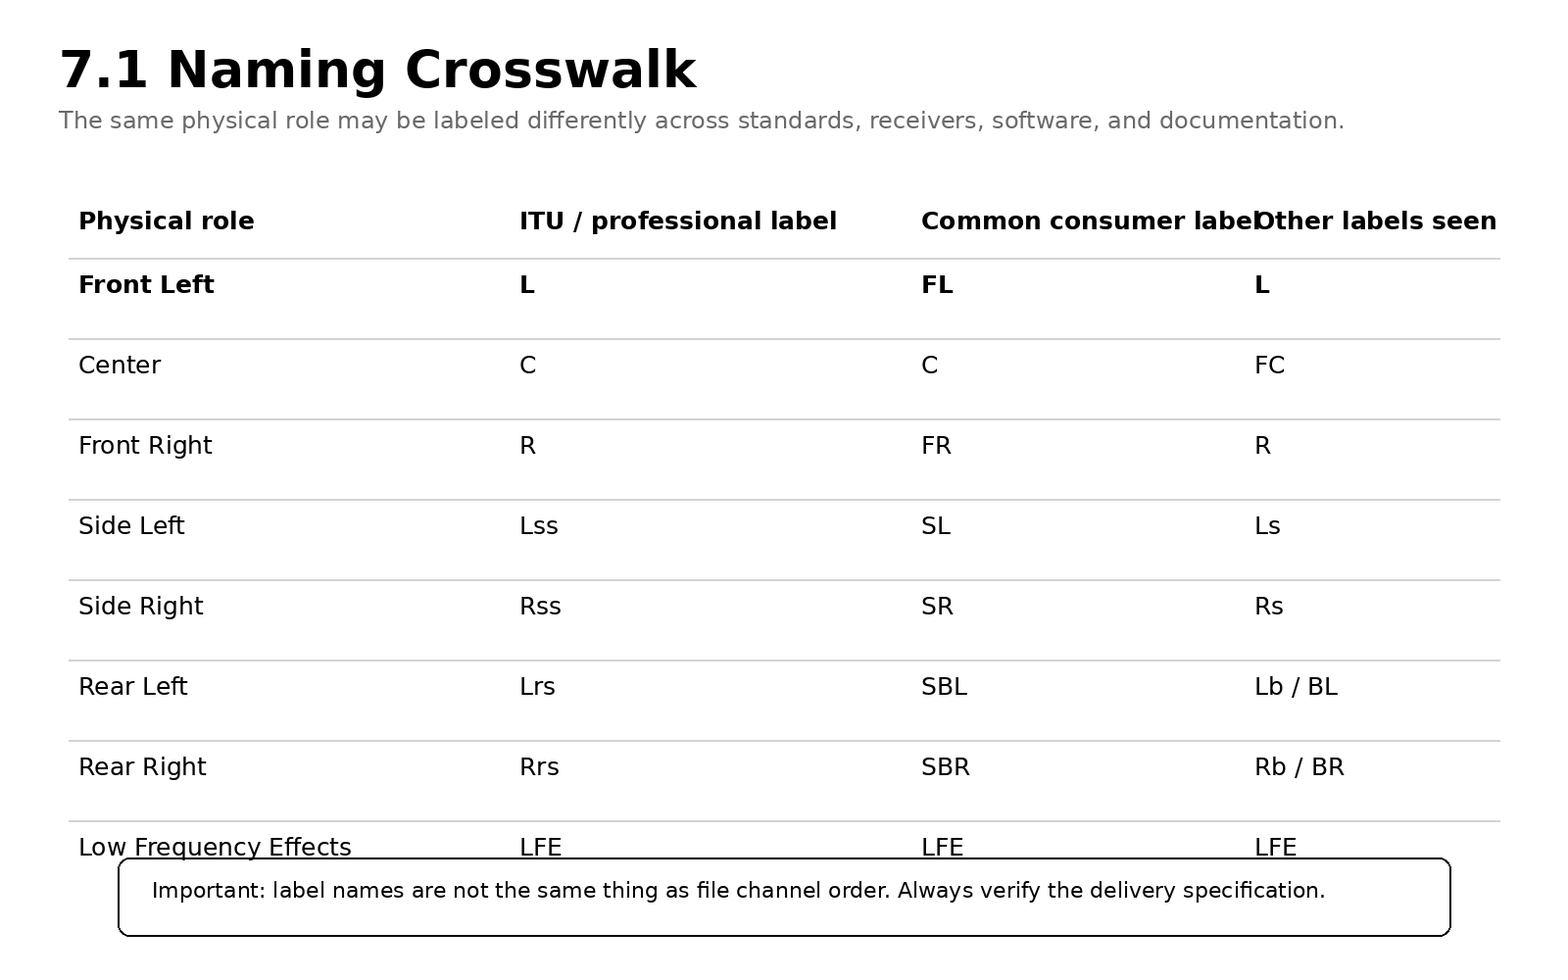
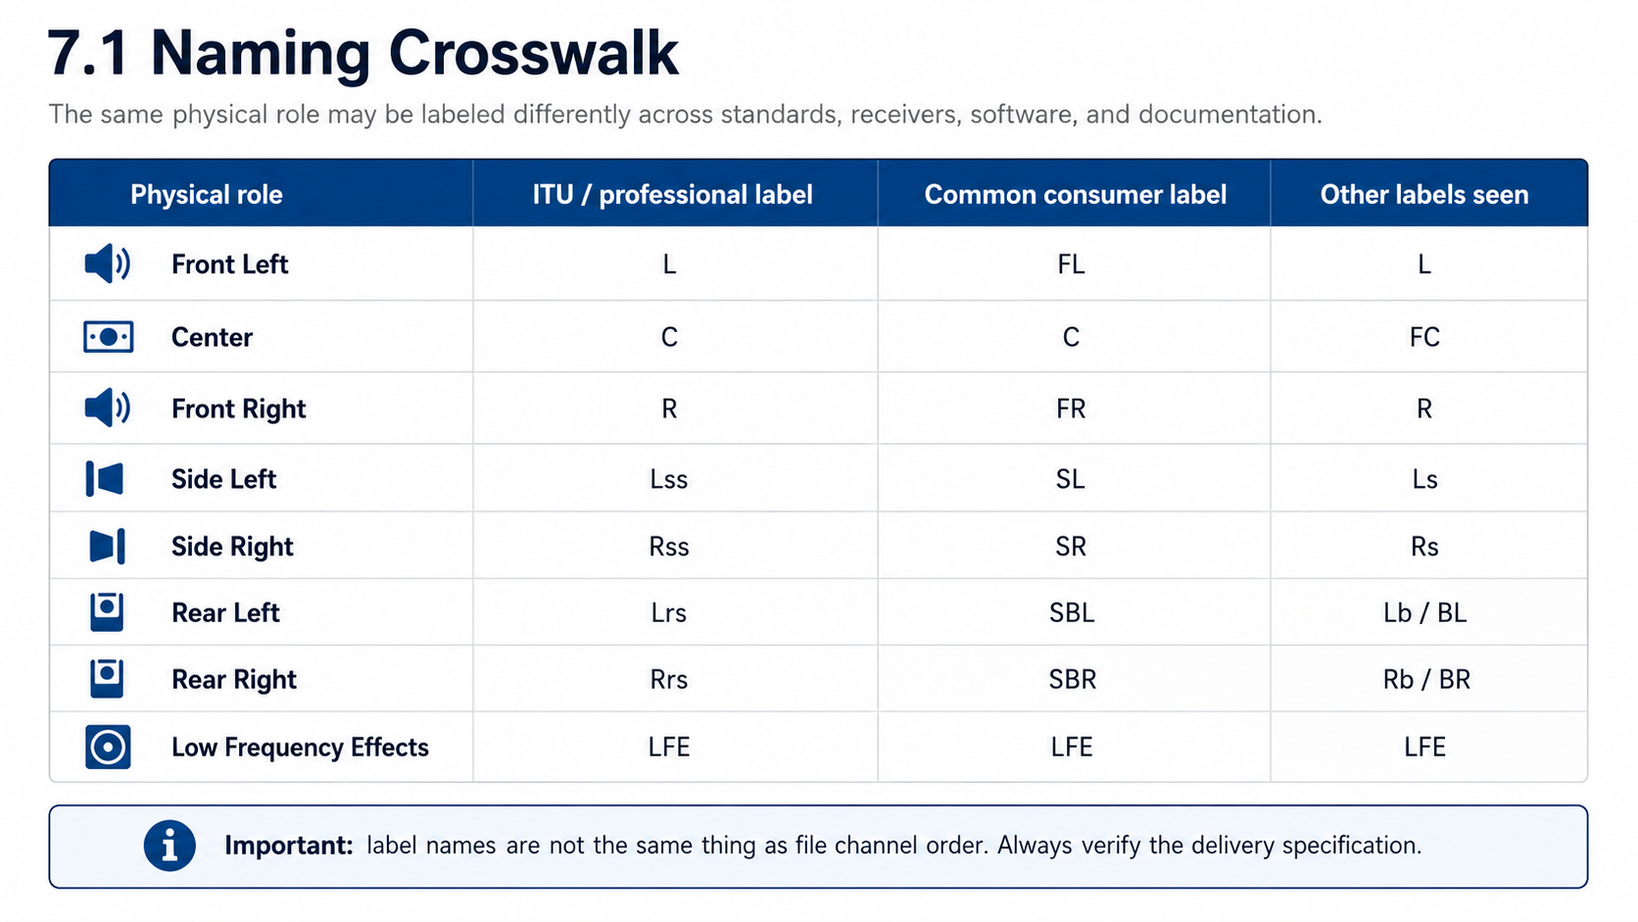
Surround

diff --git a/Classes/DAPR-3340--Spatial-Audio-I/Images/CanvasImageReferences.html b/Classes/DAPR-3340--Spatial-Audio-I/Images/CanvasImageReferences.html
@@ -1,31 +1,262 @@
-<img src="https://raw.githubusercontent.com/uvu-dapr/Canvas/main/Classes/DAPR-3340--Spatial-Audio-I/Images/1-23ITU51SpeakerLayout.png" alt="1-23ITU51SpeakerLayout" style="max-width:100%; height:auto;">
+<div style="font-family:Arial, Helvetica, sans-serif; max-width:900px; margin:0 auto; color:#212121; line-height:1.6; background-color:#ffffff; padding:0 12px;">
 
-<img src="https://raw.githubusercontent.com/uvu-dapr/Canvas/main/Classes/DAPR-3340--Spatial-Audio-I/Images/1-24ITU71SpeakerLayout.png" alt="1-24ITU71SpeakerLayout" style="max-width:100%; height:auto;">
+  <h2 style="background-color:#1b5e20; color:#ffffff; padding:16px 20px; font-size:1.4em; border-radius:4px;">5.1 and 7.1 Surround Sound: Layouts, Naming, and Historical Variants</h2>
 
-<img src="https://raw.githubusercontent.com/uvu-dapr/Canvas/main/Classes/DAPR-3340--Spatial-Audio-I/Images/1-25LFEVsBassManagement.png" alt="1-25LFEVsBassManagement" style="max-width:100%; height:auto;">
+  <p>5.1 and 7.1 are both channel-based surround formats, but the label "7.1" has not always described the same loudspeaker arrangement. Modern 7.1 normally uses three front channels, two side surrounds, two rear surrounds, and LFE. Historical systems used the same channel count in different ways, including Sony SDDS with five screen channels across the front.</p>
 
-<img src="https://raw.githubusercontent.com/uvu-dapr/Canvas/main/Classes/DAPR-3340--Spatial-Audio-I/Images/1-26SevenPointOneNamingCrosswalk.png" alt="1-26SevenPointOneNamingCrosswalk" style="max-width:100%; height:auto;">
+  <p>This page separates the modern reference layouts from older matrix, cinema, file-based, and height-expansion systems so the channel names and speaker roles stay clear.</p>
 
-<img src="https://raw.githubusercontent.com/uvu-dapr/Canvas/main/Classes/DAPR-3340--Spatial-Audio-I/Images/1-27SDDS71FiveFrontLayout.png" alt="1-27SDDS71FiveFrontLayout" style="max-width:100%; height:auto;">
+  <div style="background-color:#e3f2fd; border-left:4px solid #0d47a1; margin:16px 0; padding:12px 14px;">
+    <img src="https://raw.githubusercontent.com/uvu-dapr/Canvas/main/Classes/All/DAPR_Canvas_Icon_Reference/Callout_Note.svg" alt="Note" width="44" height="44" style="vertical-align:middle; margin-right:10px;">
+    <strong style="vertical-align:middle;">Start with the layout, not the number</strong>
+    <div style="margin-left:54px; margin-top:4px;">When you see "7.1," ask which 7.1 layout is being discussed. Modern side-and-rear 7.1, Sony SDDS 7.1, Pro Logic IIx expansion, and legacy height expansion do not place the additional channels in the same locations.</div>
+  </div>
 
-<img src="https://raw.githubusercontent.com/uvu-dapr/Canvas/main/Classes/DAPR-3340--Spatial-Audio-I/Images/1-28Modern71SideRearLayout.png" alt="1-28Modern71SideRearLayout" style="max-width:100%; height:auto;">
+  <h2 style="color:#1b5e20; font-size:1.3em; border-bottom:2px solid #1b5e20; padding-bottom:4px;">5.1 Reference Layout</h2>
 
-<img src="https://raw.githubusercontent.com/uvu-dapr/Canvas/main/Classes/DAPR-3340--Spatial-Audio-I/Images/1-29FivePointOneToSevenPointOneExtension.png" alt="1-29FivePointOneToSevenPointOneExtension" style="max-width:100%; height:auto;">
+  <p>Conventional 5.1 uses five main channels plus a dedicated Low Frequency Effects channel:</p>
 
-<img src="https://raw.githubusercontent.com/uvu-dapr/Canvas/main/Classes/DAPR-3340--Spatial-Audio-I/Images/1-30ProLogicIIxVsIIz.png" alt="1-30ProLogicIIxVsIIz" style="max-width:100%; height:auto;">
+  <ul>
+    <li>Left (L)</li>
+    <li>Center (C)</li>
+    <li>Right (R)</li>
+    <li>Left Surround (LS)</li>
+    <li>Right Surround (RS)</li>
+    <li>Low Frequency Effects (LFE)</li>
+  </ul>
 
-<img src="https://raw.githubusercontent.com/uvu-dapr/Canvas/main/Classes/DAPR-3340--Spatial-Audio-I/Images/1-31SevenPointOneAndHeightFormats.png" alt="1-31SevenPointOneAndHeightFormats" style="max-width:100%; height:auto;">
+  <div style="text-align:center; margin:22px 0;">
+    <img src="https://raw.githubusercontent.com/uvu-dapr/Canvas/main/Classes/DAPR-3340--Spatial-Audio-I/Images/1-23ITU51SpeakerLayout.png" alt="5.1 reference loudspeaker layout with front and surround placement ranges" style="max-width:760px; width:100%; height:auto;">
+    <p style="margin:6px 0 0 0; color:#616161; font-style:italic;">Figure 1. 5.1 reference loudspeaker geometry based on ITU-R BS.775-4.</p>
+  </div>
 
-<img src="https://raw.githubusercontent.com/uvu-dapr/Canvas/main/Classes/DAPR-3340--Spatial-Audio-I/Images/1-32WindowsMediaAudio9Pro71.png" alt="1-32WindowsMediaAudio9Pro71" style="max-width:100%; height:auto;">
+  <p>Left and Right are positioned approximately 30 degrees to either side of Center. The surround loudspeakers occupy the side-rear region, typically within the 100 to 120 degree sectors.</p>
 
-<img src="https://raw.githubusercontent.com/uvu-dapr/Canvas/main/Classes/DAPR-3340--Spatial-Audio-I/Images/1-33WindowsMediaVsWindowsSpatialSound.png" alt="1-33WindowsMediaVsWindowsSpatialSound" style="max-width:100%; height:auto;">
+  <h3 style="color:#1b5e20; font-size:1.2em; font-weight:bold; border-bottom:2px solid #1b5e20; padding-bottom:6px; margin-top:38px; margin-bottom:18px;">LFE Is Not the Same Thing as Bass Management</h3>
 
-<img src="https://raw.githubusercontent.com/uvu-dapr/Canvas/main/Classes/DAPR-3340--Spatial-Audio-I/Images/1-34SevenPointOneMusicUse.png" alt="1-34SevenPointOneMusicUse" style="max-width:100%; height:auto;">
+  <div style="text-align:center; margin:22px 0;">
+    <img src="https://raw.githubusercontent.com/uvu-dapr/Canvas/main/Classes/DAPR-3340--Spatial-Audio-I/Images/1-25LFEVsBassManagement.png" alt="Diagram comparing the LFE program channel with playback bass management" style="max-width:760px; width:100%; height:auto;">
+    <p style="margin:6px 0 0 0; color:#616161; font-style:italic;">Figure 2. LFE and bass management are separate concepts.</p>
+  </div>
 
-<img src="https://raw.githubusercontent.com/uvu-dapr/Canvas/main/Classes/DAPR-3340--Spatial-Audio-I/Images/1-35SevenPointOneFamiliesComparison.png" alt="1-35SevenPointOneFamiliesComparison" style="max-width:100%; height:auto;">
+  <p>The LFE channel is a discrete program channel. Bass management is playback-system processing that redirects low-frequency information from the main channels to one or more subwoofers. The ".1" in 5.1 describes the LFE channel, not the physical number of subwoofers.</p>
 
-<img src="https://raw.githubusercontent.com/uvu-dapr/Canvas/main/Classes/DAPR-3340--Spatial-Audio-I/Images/1-36SDDSEducationalBadge.png" alt="1-36SDDSEducationalBadge" style="max-width:100%; height:auto;">
+  <h2 style="color:#1b5e20; font-size:1.3em; border-bottom:2px solid #1b5e20; padding-bottom:4px;">Modern 7.1 Reference Layout</h2>
 
-<img src="https://raw.githubusercontent.com/uvu-dapr/Canvas/main/Classes/DAPR-3340--Spatial-Audio-I/Images/1-37WindowsMediaAudio9ProBadge.png" alt="1-37WindowsMediaAudio9ProBadge" style="max-width:100%; height:auto;">
+  <p>Modern 7.1 keeps the same three front channels as 5.1 but divides the surround field into separate side and rear pairs:</p>
 
-<img src="https://raw.githubusercontent.com/uvu-dapr/Canvas/main/Classes/DAPR-3340--Spatial-Audio-I/Images/1-38SevenPointOneChannelOrderVsLabels.png" alt="1-38SevenPointOneChannelOrderVsLabels" style="max-width:100%; height:auto;">
+  <ul>
+    <li>Left (L)</li>
+    <li>Center (C)</li>
+    <li>Right (R)</li>
+    <li>Left Side Surround (Lss)</li>
+    <li>Right Side Surround (Rss)</li>
+    <li>Left Rear Surround (Lrs)</li>
+    <li>Right Rear Surround (Rrs)</li>
+    <li>Low Frequency Effects (LFE)</li>
+  </ul>
+
+  <div style="text-align:center; margin:22px 0;">
+    <img src="https://raw.githubusercontent.com/uvu-dapr/Canvas/main/Classes/DAPR-3340--Spatial-Audio-I/Images/1-24ITU71SpeakerLayout.png" alt="7.1 reference layout with front, side surround, and rear surround positions" style="max-width:760px; width:100%; height:auto;">
+    <p style="margin:6px 0 0 0; color:#616161; font-style:italic;">Figure 3. Modern 7.1 reference geometry based on ITU-R BS.2051-3 Sound System I.</p>
+  </div>
+
+  <p>The additional pair in modern 7.1 does not simply move the 5.1 surrounds farther backward. Instead, the surround field is divided into side-surround and rear-surround roles.</p>
+
+  <div style="text-align:center; margin:22px 0;">
+    <img src="https://raw.githubusercontent.com/uvu-dapr/Canvas/main/Classes/DAPR-3340--Spatial-Audio-I/Images/1-28Modern71SideRearLayout.png" alt="Modern 7.1 layout with distinct side and rear surround pairs" style="max-width:760px; width:100%; height:auto;">
+    <p style="margin:6px 0 0 0; color:#616161; font-style:italic;">Figure 4. Modern 7.1 uses separate side and rear surround pairs.</p>
+  </div>
+
+  <div style="text-align:center; margin:22px 0;">
+    <img src="https://raw.githubusercontent.com/uvu-dapr/Canvas/main/Classes/DAPR-3340--Spatial-Audio-I/Images/1-29FivePointOneToSevenPointOneExtension.png" alt="Diagram showing how 7.1 expands the 5.1 surround field into side and rear pairs" style="max-width:760px; width:100%; height:auto;">
+    <p style="margin:6px 0 0 0; color:#616161; font-style:italic;">Figure 5. A useful way to visualize the change from 5.1 to modern 7.1.</p>
+  </div>
+
+  <h3 style="color:#1b5e20; font-size:1.2em; font-weight:bold; border-bottom:2px solid #1b5e20; padding-bottom:6px; margin-top:38px; margin-bottom:18px;">7.1 Naming Can Be Confusing</h3>
+
+  <p>Different standards, DAWs, receivers, codecs, and manufacturers may use different labels for similar speaker roles. The physical role matters more than memorizing one abbreviation.</p>
+
+  <div style="text-align:center; margin:22px 0;">
+    <img src="https://raw.githubusercontent.com/uvu-dapr/Canvas/main/Classes/DAPR-3340--Spatial-Audio-I/Images/1-26SevenPointOneNamingCrosswalk.png" alt="Crosswalk of common 7.1 side and rear surround channel labels" style="max-width:820px; width:100%; height:auto;">
+    <p style="margin:6px 0 0 0; color:#616161; font-style:italic;">Figure 6. Common naming conventions for 7.1 channels.</p>
+  </div>
+
+  <table style="width:100%; border-collapse:collapse; margin:18px 0 28px 0; border:2px solid #1b5e20;">
+    <caption>Common 7.1 Channel Labels</caption>
+    <thead>
+      <tr>
+        <th scope="col" style="background-color:#1b5e20; color:#ffffff; padding:10px; text-align:left;">Physical Role</th>
+        <th scope="col" style="background-color:#1b5e20; color:#ffffff; padding:10px; text-align:left;">Professional / ITU Style</th>
+        <th scope="col" style="background-color:#1b5e20; color:#ffffff; padding:10px; text-align:left;">Consumer Labels Often Seen</th>
+      </tr>
+    </thead>
+    <tbody>
+      <tr>
+        <td style="padding:10px; border-bottom:1px solid #cccccc;">Left Side Surround</td>
+        <td style="padding:10px; border-bottom:1px solid #cccccc;">Lss</td>
+        <td style="padding:10px; border-bottom:1px solid #cccccc;">SL, Ls</td>
+      </tr>
+      <tr style="background-color:#f5f5f5;">
+        <td style="padding:10px; border-bottom:1px solid #cccccc;">Right Side Surround</td>
+        <td style="padding:10px; border-bottom:1px solid #cccccc;">Rss</td>
+        <td style="padding:10px; border-bottom:1px solid #cccccc;">SR, Rs</td>
+      </tr>
+      <tr>
+        <td style="padding:10px; border-bottom:1px solid #cccccc;">Left Rear Surround</td>
+        <td style="padding:10px; border-bottom:1px solid #cccccc;">Lrs</td>
+        <td style="padding:10px; border-bottom:1px solid #cccccc;">SBL, Lb, BL</td>
+      </tr>
+      <tr style="background-color:#f5f5f5;">
+        <td style="padding:10px;">Right Rear Surround</td>
+        <td style="padding:10px;">Rrs</td>
+        <td style="padding:10px;">SBR, Rb, BR</td>
+      </tr>
+    </tbody>
+  </table>
+
+  <div style="background-color:#fff8e1; border-left:4px solid #f57f17; margin:16px 0; padding:12px 14px;">
+    <img src="https://raw.githubusercontent.com/uvu-dapr/Canvas/main/Classes/All/DAPR_Canvas_Icon_Reference/Callout_Warning.svg" alt="Warning" width="44" height="44" style="vertical-align:middle; margin-right:10px;">
+    <strong style="vertical-align:middle;">Speaker labels and file channel order are different issues</strong>
+    <div style="margin-left:54px; margin-top:4px;">A label such as Lss tells you the speaker's spatial role. It does not guarantee where that channel appears in an interleaved file, codec, or delivery specification.</div>
+  </div>
+
+  <div style="text-align:center; margin:22px 0;">
+    <img src="https://raw.githubusercontent.com/uvu-dapr/Canvas/main/Classes/DAPR-3340--Spatial-Audio-I/Images/1-38SevenPointOneChannelOrderVsLabels.png" alt="Diagram distinguishing speaker labels from encoded channel order" style="max-width:820px; width:100%; height:auto;">
+    <p style="margin:6px 0 0 0; color:#616161; font-style:italic;">Figure 7. Always verify channel order separately from speaker naming.</p>
+  </div>
+
+  <h2 style="color:#1b5e20; font-size:1.3em; border-bottom:2px solid #1b5e20; padding-bottom:4px;">Sony SDDS: A Very Different 7.1</h2>
+
+  <p>Sony Dynamic Digital Sound, or SDDS, is one of the most important reasons the label "7.1" can be misleading. The historical eight-channel SDDS configuration used five channels across the front of the theater, two surround channels, and LFE.</p>
+
+  <div style="text-align:center; margin:18px 0;">
+    <img src="https://raw.githubusercontent.com/uvu-dapr/Canvas/main/Classes/DAPR-3340--Spatial-Audio-I/Images/1-36SDDSEducationalBadge.png" alt="Educational identifier for Sony Dynamic Digital Sound" style="max-width:640px; width:100%; height:auto;">
+  </div>
+
+  <div style="text-align:center; margin:22px 0;">
+    <img src="https://raw.githubusercontent.com/uvu-dapr/Canvas/main/Classes/DAPR-3340--Spatial-Audio-I/Images/1-27SDDS71FiveFrontLayout.png" alt="Sony SDDS 7.1 layout with five screen channels and two surrounds" style="max-width:820px; width:100%; height:auto;">
+    <p style="margin:6px 0 0 0; color:#616161; font-style:italic;">Figure 8. Historical SDDS 7.1 used five screen channels: L, Lc, C, Rc, and R.</p>
+  </div>
+
+  <p>The five-front-channel arrangement was intended to improve localization and screen coverage in large cinemas. It is not the same layout as the modern home-theater and production version of 7.1.</p>
+
+  <div style="text-align:center; margin:22px 0;">
+    <img src="https://raw.githubusercontent.com/uvu-dapr/Canvas/main/Classes/DAPR-3340--Spatial-Audio-I/Images/1-35SevenPointOneFamiliesComparison.png" alt="Comparison of modern 7.1, SDDS 7.1, Pro Logic IIx, and height expansion" style="max-width:820px; width:100%; height:auto;">
+    <p style="margin:6px 0 0 0; color:#616161; font-style:italic;">Figure 9. Several systems have used the term 7.1 even though the layouts differ.</p>
+  </div>
+
+  <h2 style="color:#1b5e20; font-size:1.3em; border-bottom:2px solid #1b5e20; padding-bottom:4px;">Legacy Dolby Expansion: Pro Logic IIx and IIz</h2>
+
+  <p>Dolby Pro Logic IIx and Dolby Pro Logic IIz are useful historical examples because they extended conventional surround in two different directions.</p>
+
+  <div style="text-align:center; margin:22px 0;">
+    <img src="https://raw.githubusercontent.com/uvu-dapr/Canvas/main/Classes/DAPR-3340--Spatial-Audio-I/Images/1-30ProLogicIIxVsIIz.png" alt="Comparison of Pro Logic IIx back-surround expansion and Pro Logic IIz front-height expansion" style="max-width:820px; width:100%; height:auto;">
+    <p style="margin:6px 0 0 0; color:#616161; font-style:italic;">Figure 10. Pro Logic IIx expanded toward back surrounds, while Pro Logic IIz added front height channels.</p>
+  </div>
+
+  <p>Pro Logic IIx was associated with extending compatible material toward 6.1 or 7.1 playback by adding back-surround information. Pro Logic IIz added front-height channels instead. Those height channels are a separate historical concept from the modern side-and-rear 7.1 bed.</p>
+
+  <h2 style="color:#1b5e20; font-size:1.3em; border-bottom:2px solid #1b5e20; padding-bottom:4px;">Did 7.1 Ever Include Height?</h2>
+
+  <p>Plain "7.1" normally describes seven ear-level channels plus LFE. Once discrete height channels are added, modern naming should show them explicitly with a third number, such as 7.1.2 or 7.1.4.</p>
+
+  <div style="text-align:center; margin:22px 0;">
+    <img src="https://raw.githubusercontent.com/uvu-dapr/Canvas/main/Classes/DAPR-3340--Spatial-Audio-I/Images/1-31SevenPointOneAndHeightFormats.png" alt="Comparison of 7.1, 7.1.2, 7.1.4, and Auro 11.1 height configurations" style="max-width:820px; width:100%; height:auto;">
+    <p style="margin:6px 0 0 0; color:#616161; font-style:italic;">Figure 11. Height channels should be identified explicitly instead of being hidden inside the label 7.1.</p>
+  </div>
+
+  <p>Auro-3D also demonstrates how a 7.1 lower layer can be extended vertically. Auro 11.1, for example, can be described as a 7.1 lower layer plus four height channels.</p>
+
+  <h2 style="color:#1b5e20; font-size:1.3em; border-bottom:2px solid #1b5e20; padding-bottom:4px;">7.1 for Music</h2>
+
+  <p>7.1 is not limited to film sound. In music production, the side and rear pairs give the mixer more horizontal control than 5.1. The side pair can support lateral envelopment, width, reverberation, audience, or movement along the sides. The rear pair can create depth behind the listener, rear localization, diffuse ambience, and motion across the back of the room.</p>
+
+  <div style="text-align:center; margin:22px 0;">
+    <img src="https://raw.githubusercontent.com/uvu-dapr/Canvas/main/Classes/DAPR-3340--Spatial-Audio-I/Images/1-34SevenPointOneMusicUse.png" alt="Conceptual examples of side and rear surround roles in a 7.1 music mix" style="max-width:820px; width:100%; height:auto;">
+    <p style="margin:6px 0 0 0; color:#616161; font-style:italic;">Figure 12. 7.1 gives a music mixer independent side and rear spatial regions.</p>
+  </div>
+
+  <p>There is no rule that the side channels must contain one type of musical material and the rear channels another. The artistic advantage is increased control over horizontal envelopment and motion.</p>
+
+  <h2 style="color:#1b5e20; font-size:1.3em; border-bottom:2px solid #1b5e20; padding-bottom:4px;">Windows Media Audio 9 Professional</h2>
+
+  <p>Windows Media Audio 9 Professional is historically significant because it shows how discrete multichannel audio moved beyond discs into computer files, downloads, and streaming. Microsoft documented support for multichannel playback including 5.1 and 7.1, with higher-resolution options than standard CD audio.</p>
+
+  <div style="text-align:center; margin:18px 0;">
+    <img src="https://raw.githubusercontent.com/uvu-dapr/Canvas/main/Classes/DAPR-3340--Spatial-Audio-I/Images/1-37WindowsMediaAudio9ProBadge.png" alt="Educational identifier for Windows Media Audio 9 Professional" style="max-width:640px; width:100%; height:auto;">
+  </div>
+
+  <div style="text-align:center; margin:22px 0;">
+    <img src="https://raw.githubusercontent.com/uvu-dapr/Canvas/main/Classes/DAPR-3340--Spatial-Audio-I/Images/1-32WindowsMediaAudio9Pro71.png" alt="Overview of Windows Media Audio 9 Professional multichannel capabilities" style="max-width:820px; width:100%; height:auto;">
+    <p style="margin:6px 0 0 0; color:#616161; font-style:italic;">Figure 13. Windows Media Audio 9 Professional supported file-based multichannel delivery.</p>
+  </div>
+
+  <h3 style="color:#1b5e20; font-size:1.2em; font-weight:bold; border-bottom:2px solid #1b5e20; padding-bottom:6px; margin-top:38px; margin-bottom:18px;">Do Not Confuse WMA with Microsoft Spatial Sound</h3>
+
+  <div style="text-align:center; margin:22px 0;">
+    <img src="https://raw.githubusercontent.com/uvu-dapr/Canvas/main/Classes/DAPR-3340--Spatial-Audio-I/Images/1-33WindowsMediaVsWindowsSpatialSound.png" alt="Comparison of Windows Media Audio and the Microsoft Spatial Sound platform" style="max-width:820px; width:100%; height:auto;">
+    <p style="margin:6px 0 0 0; color:#616161; font-style:italic;">Figure 14. A legacy multichannel codec and a modern spatial-rendering platform solve different problems.</p>
+  </div>
+
+  <p>Windows Media Audio is a codec and delivery technology. Microsoft Spatial Sound is a later platform-level rendering system capable of handling channel-based audio, elevation cues, and dynamic spatial objects. They should not be treated as the same technology.</p>
+
+  <h2 style="color:#1b5e20; font-size:1.3em; border-bottom:2px solid #1b5e20; padding-bottom:4px;">7.1 at a Glance</h2>
+
+  <table style="width:100%; border-collapse:collapse; margin:18px 0 28px 0; border:2px solid #1b5e20;">
+    <caption>Selected Systems That Use or Extend Seven-Channel Surround</caption>
+    <thead>
+      <tr>
+        <th scope="col" style="background-color:#1b5e20; color:#ffffff; padding:10px; text-align:left;">System</th>
+        <th scope="col" style="background-color:#1b5e20; color:#ffffff; padding:10px; text-align:left;">Main Arrangement</th>
+        <th scope="col" style="background-color:#1b5e20; color:#ffffff; padding:10px; text-align:left;">Why It Matters</th>
+      </tr>
+    </thead>
+    <tbody>
+      <tr>
+        <td style="padding:10px; border-bottom:1px solid #cccccc;">Modern 7.1</td>
+        <td style="padding:10px; border-bottom:1px solid #cccccc;">3 front + 2 side + 2 rear + LFE</td>
+        <td style="padding:10px; border-bottom:1px solid #cccccc;">Current reference for conventional horizontal 7.1 production.</td>
+      </tr>
+      <tr style="background-color:#f5f5f5;">
+        <td style="padding:10px; border-bottom:1px solid #cccccc;">Sony SDDS 7.1</td>
+        <td style="padding:10px; border-bottom:1px solid #cccccc;">5 screen + 2 surround + LFE</td>
+        <td style="padding:10px; border-bottom:1px solid #cccccc;">Shows that the same channel count can describe a very different cinema layout.</td>
+      </tr>
+      <tr>
+        <td style="padding:10px; border-bottom:1px solid #cccccc;">Pro Logic IIx</td>
+        <td style="padding:10px; border-bottom:1px solid #cccccc;">Legacy expansion toward back surrounds</td>
+        <td style="padding:10px; border-bottom:1px solid #cccccc;">Important historical path from 5.1 toward 7.1 playback.</td>
+      </tr>
+      <tr style="background-color:#f5f5f5;">
+        <td style="padding:10px; border-bottom:1px solid #cccccc;">Pro Logic IIz</td>
+        <td style="padding:10px; border-bottom:1px solid #cccccc;">Legacy front-height expansion</td>
+        <td style="padding:10px; border-bottom:1px solid #cccccc;">Demonstrates that adding channels beyond 5.1 did not always mean adding rear surrounds.</td>
+      </tr>
+      <tr>
+        <td style="padding:10px; border-bottom:1px solid #cccccc;">7.1.2 / 7.1.4</td>
+        <td style="padding:10px; border-bottom:1px solid #cccccc;">7 ear-level + LFE + height</td>
+        <td style="padding:10px; border-bottom:1px solid #cccccc;">Modern naming makes the height-channel count explicit.</td>
+      </tr>
+      <tr style="background-color:#f5f5f5;">
+        <td style="padding:10px;">WMA 9 Professional</td>
+        <td style="padding:10px;">File-based discrete multichannel</td>
+        <td style="padding:10px;">Important step in moving 5.1 and 7.1 from physical media into computer delivery.</td>
+      </tr>
+    </tbody>
+  </table>
+
+  <div style="background-color:#e8f5e9; border-left:4px solid #1b5e20; margin:16px 0; padding:12px 14px;">
+    <img src="https://raw.githubusercontent.com/uvu-dapr/Canvas/main/Classes/All/DAPR_Canvas_Icon_Reference/Callout_Required.svg" alt="Required" width="44" height="44" style="vertical-align:middle; margin-right:10px;">
+    <strong style="vertical-align:middle;">What you should remember</strong>
+    <div style="margin-left:54px; margin-top:4px;">The label "7.1" tells you the channel count, but it does not always tell you the historical layout, speaker naming convention, channel order, or whether the system is being extended with height. Always identify the specific format and delivery specification.</div>
+  </div>
+
+  <h2 style="color:#1b5e20; font-size:1.3em; border-bottom:2px solid #1b5e20; padding-bottom:4px;">Standards and Reference Material</h2>
+
+  <ul>
+    <li><a href="https://www.itu.int/rec/R-REC-BS.775/en" target="_blank" rel="noopener" title="Open ITU-R BS.775 in a new tab">ITU-R BS.775 - Multichannel stereophonic sound system with and without accompanying picture</a></li>
+    <li><a href="https://www.itu.int/rec/R-REC-BS.2051/en" target="_blank" rel="noopener" title="Open ITU-R BS.2051 in a new tab">ITU-R BS.2051 - Advanced sound system for programme production</a></li>
+  </ul>
+
+</div>
